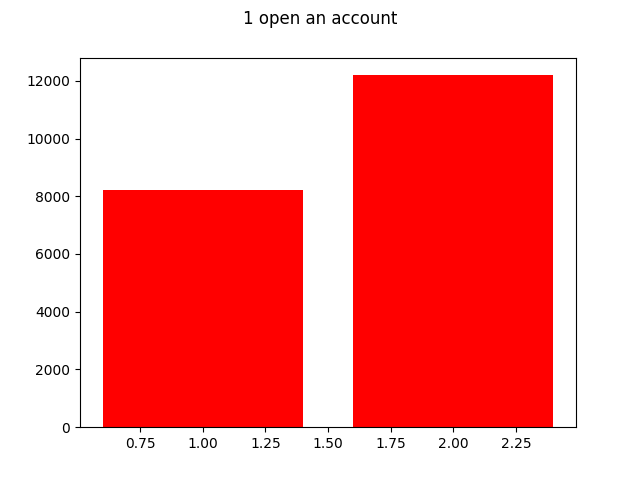
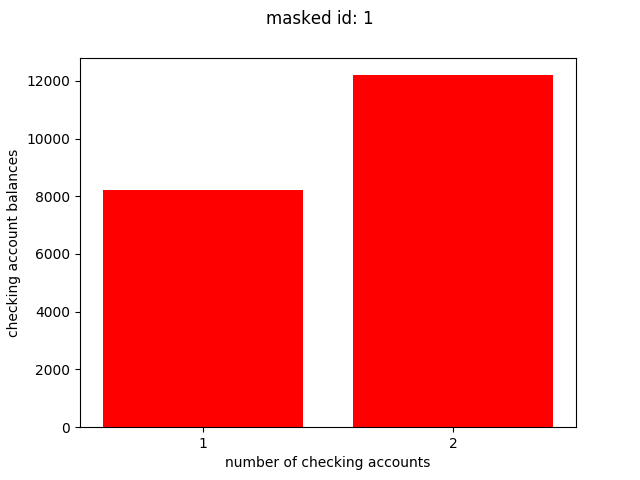
fixed output for the supporting data graphs

diff --git a/data_analysis.py b/data_analysis.py
@@ -126,9 +126,12 @@ def graph_support_data(train_data = {}):
             if train_data[masked_id].get_checking_status() != '':
                 X = train_data[masked_id].get_check_balances()
                 Y = train_data[masked_id].get_checking_account_count()
-                label_string = str(masked_id) + " " + train_data[masked_id].get_checking_status()
+                label_string = "masked id: " + str(masked_id)
                 graphs[count].suptitle(label_string)
-                axis[count].bar(Y, X, label = label_string, color = colors[count])
+                axis[count].bar(Y, X, label = label_string, color = colors[count], align='center')
+                axis[count].set_ylabel('checking account balances')
+                axis[count].set_xlabel('number of checking accounts')
+                axis[count].set_xticks([min(Y), max(Y)])
                 count += 1
         plt.show()
 
